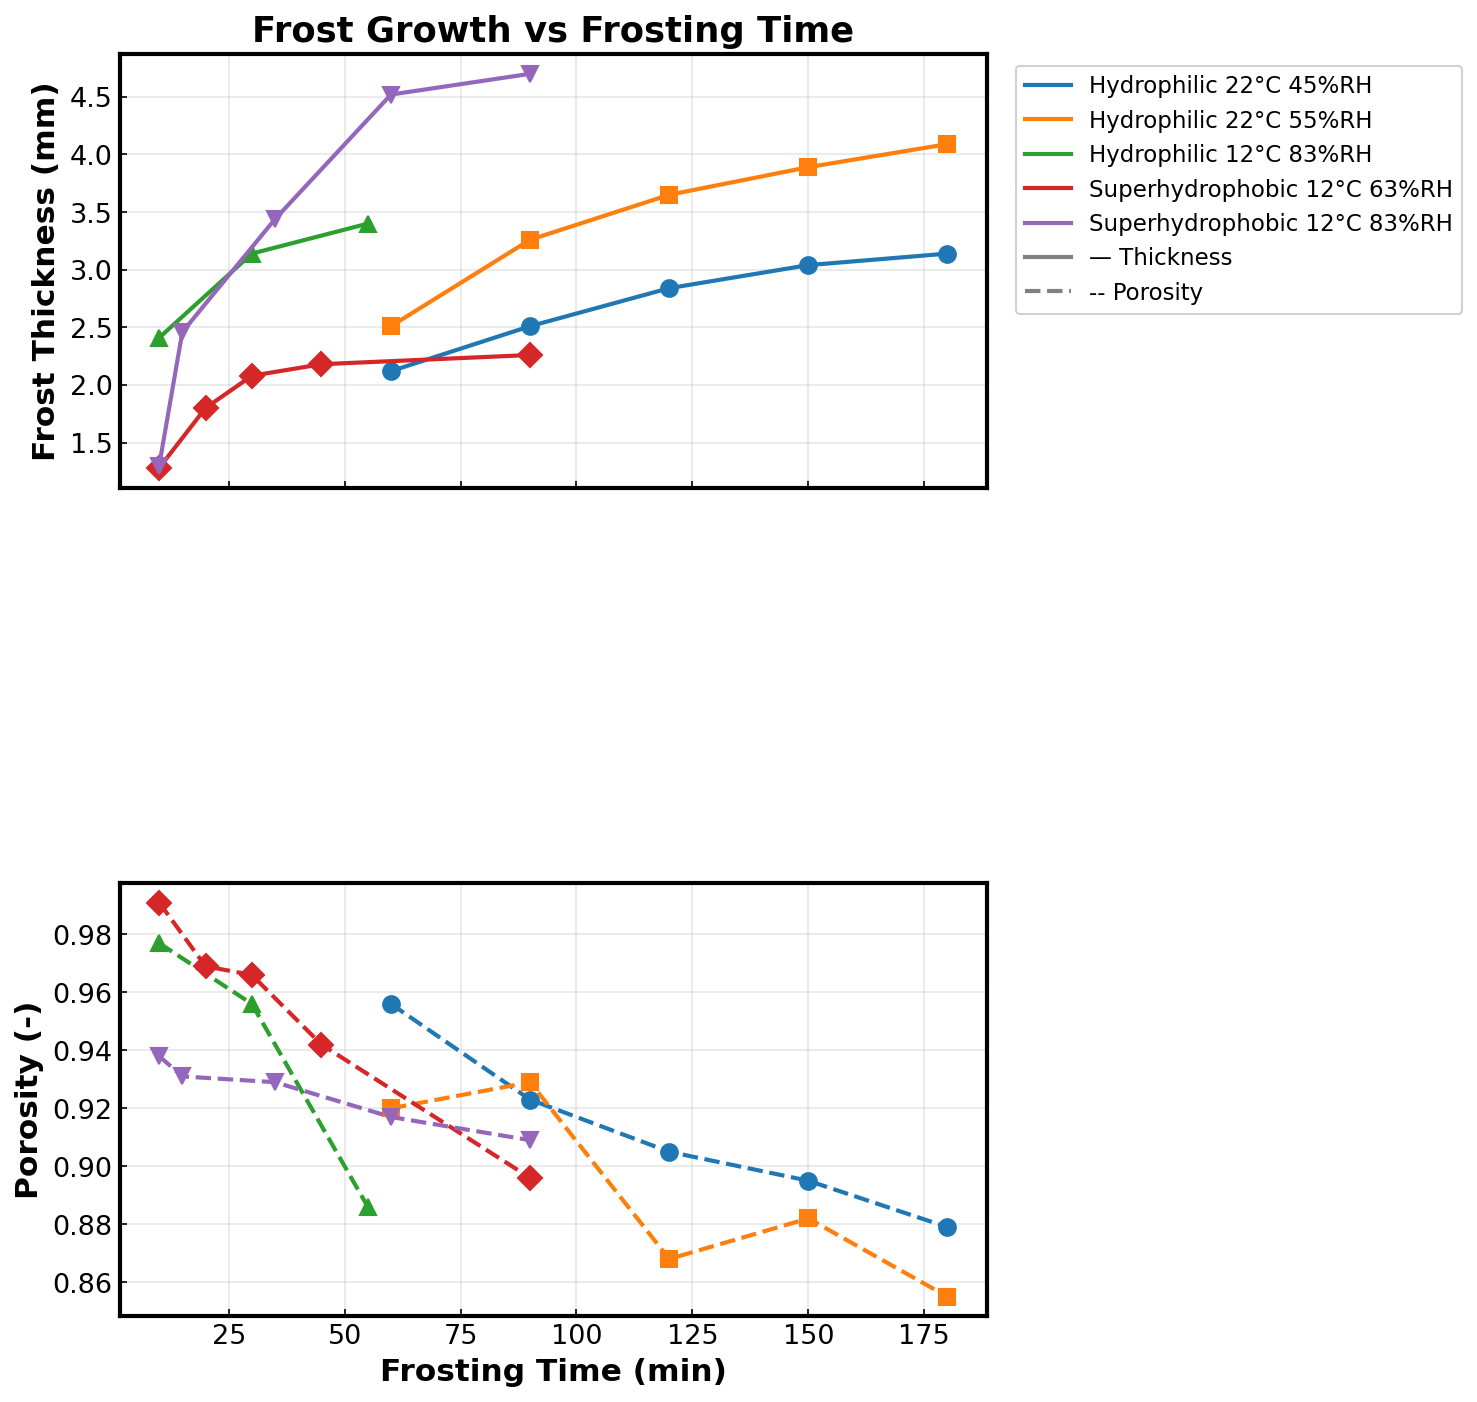
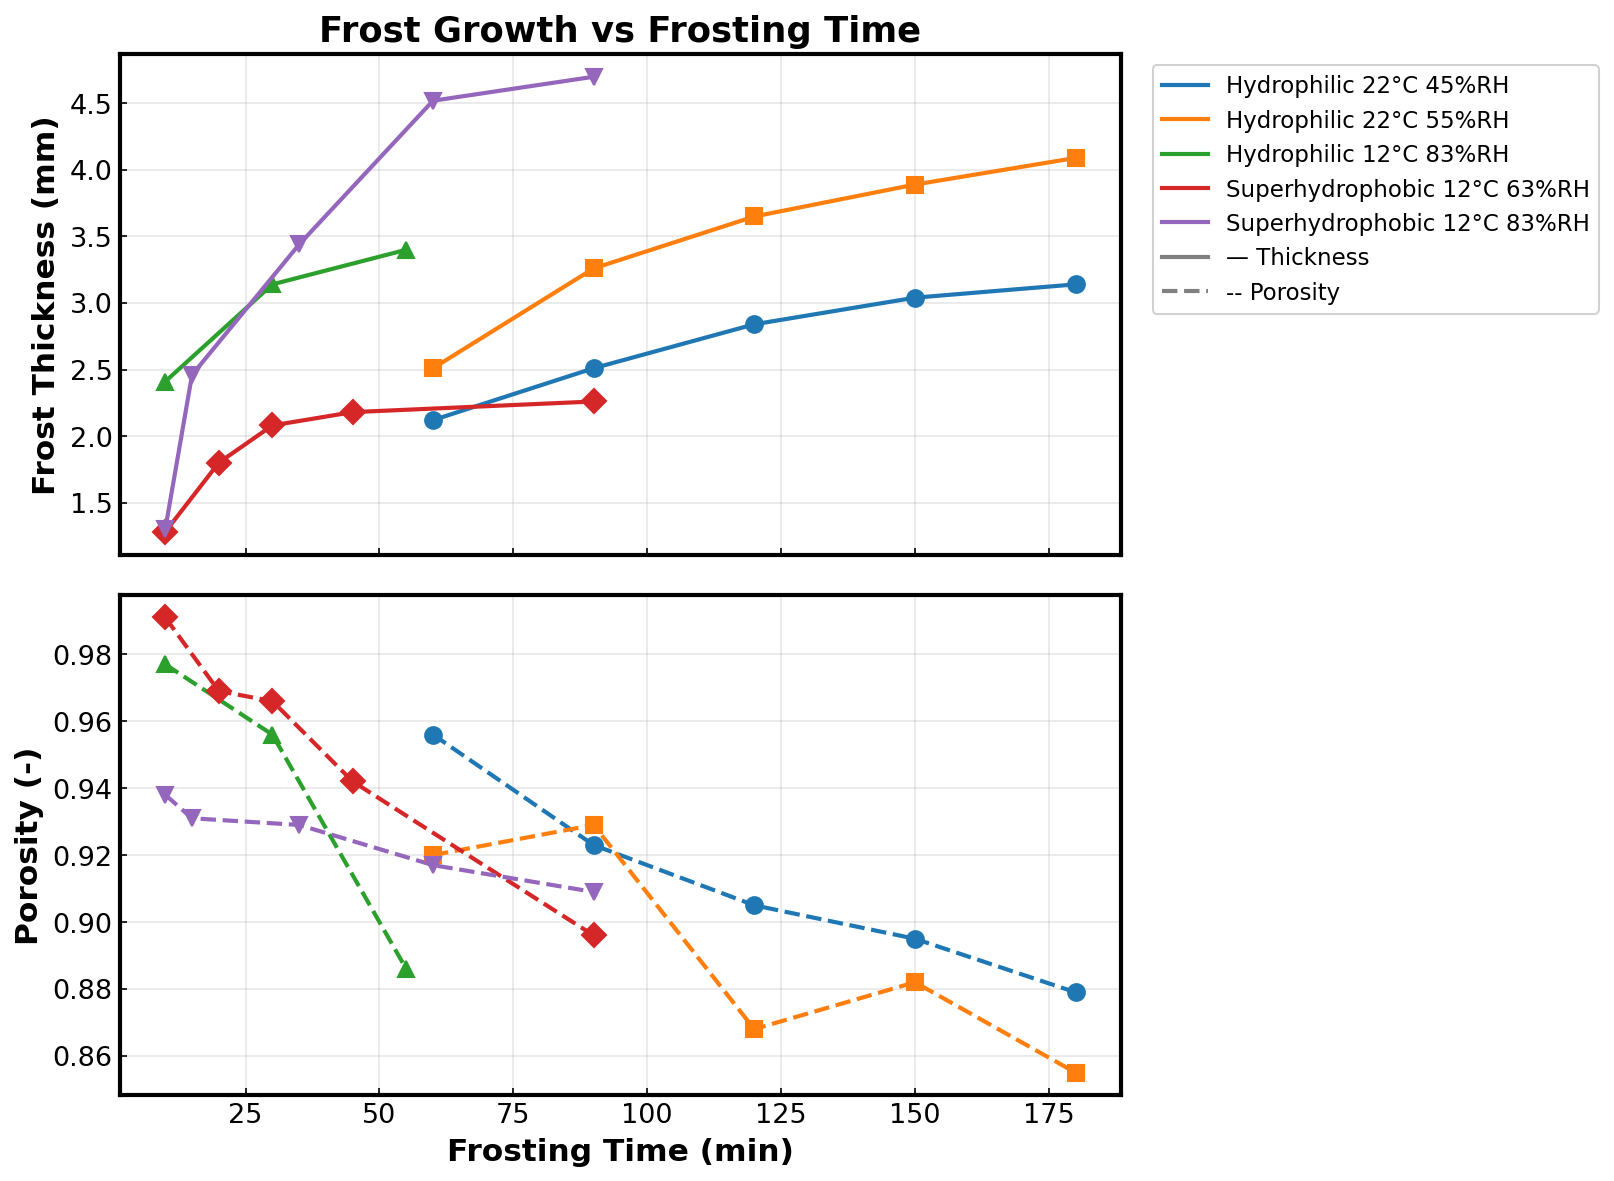
Fix frost_growth figure layout: remove large gap between subplots
The figure height (10x12) was far taller than two 2:1 aspect panels
need, and tight_layout() was overriding the hspace adjustment because
it ran after subplots_adjust. Shrink figsize to (10, 8) and apply
hspace after tight_layout so the panels stack compactly.

diff --git a/plot_representative_temperature.py b/plot_representative_temperature.py
@@ -324,7 +324,7 @@ def load_frost_growth_data(filepath='exp_data/defrost_sloughing_experiment_data.
 
 
 def plot_frost_growth(data_file='exp_data/defrost_sloughing_experiment_data.csv',
-                      output_dir='figure', figsize=(10, 12)):
+                      output_dir='figure', figsize=(10, 8)):
     """
     Plot frost thickness and porosity vs frosting time in two vertically stacked subplots.
 
@@ -412,10 +412,10 @@ def plot_frost_growth(data_file='exp_data/defrost_sloughing_experiment_data.csv'
     ax1.legend(handles=legend_elements, bbox_to_anchor=(1.02, 1), loc='upper left',
                fontsize=11, framealpha=0.9)
 
-    # Reduce space between subplots
-    plt.subplots_adjust(hspace=0.05)
-
     plt.tight_layout()
+
+    # Reduce space between subplots (after tight_layout, which would otherwise override it)
+    fig.subplots_adjust(hspace=0.08)
 
     # Save figure
     output_path = Path(output_dir)
